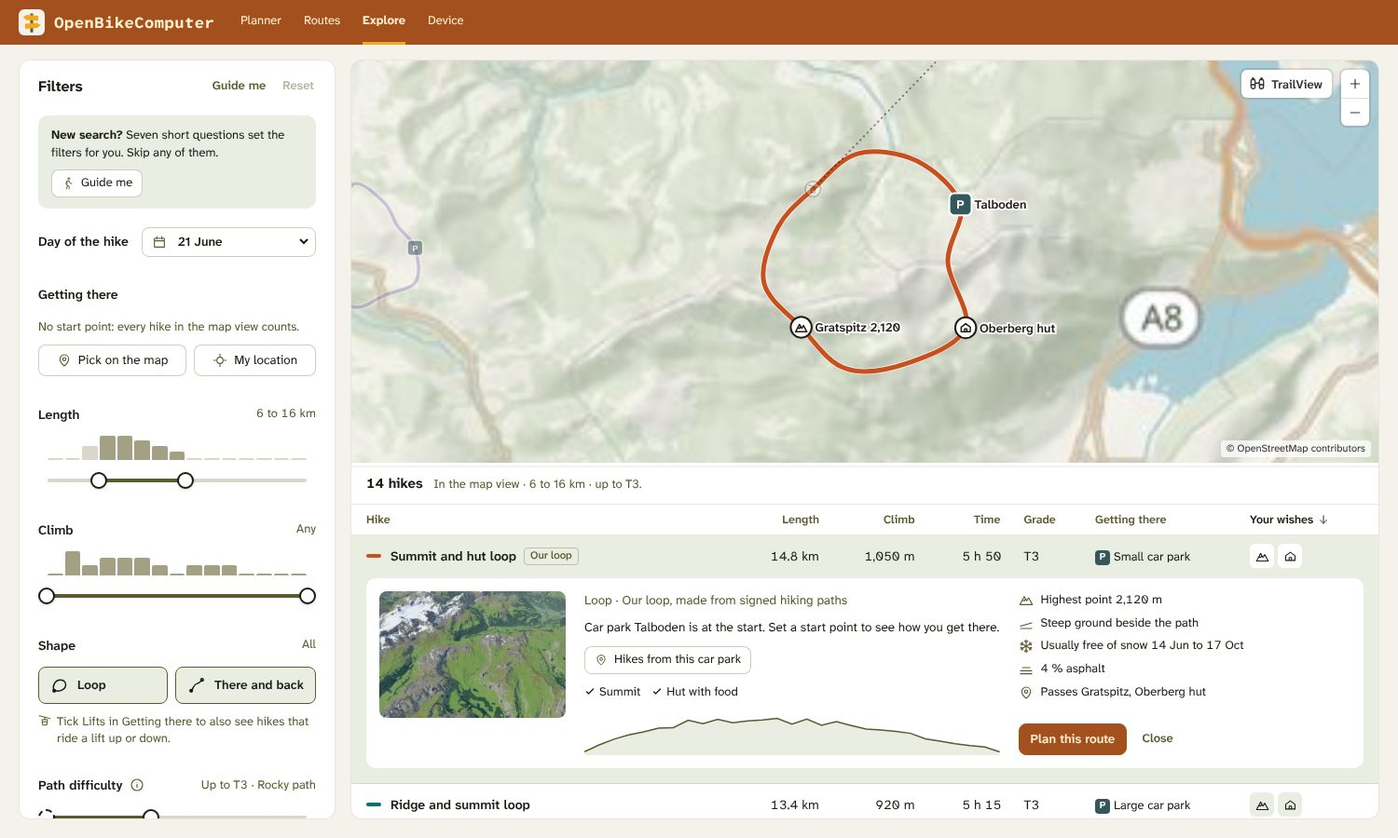
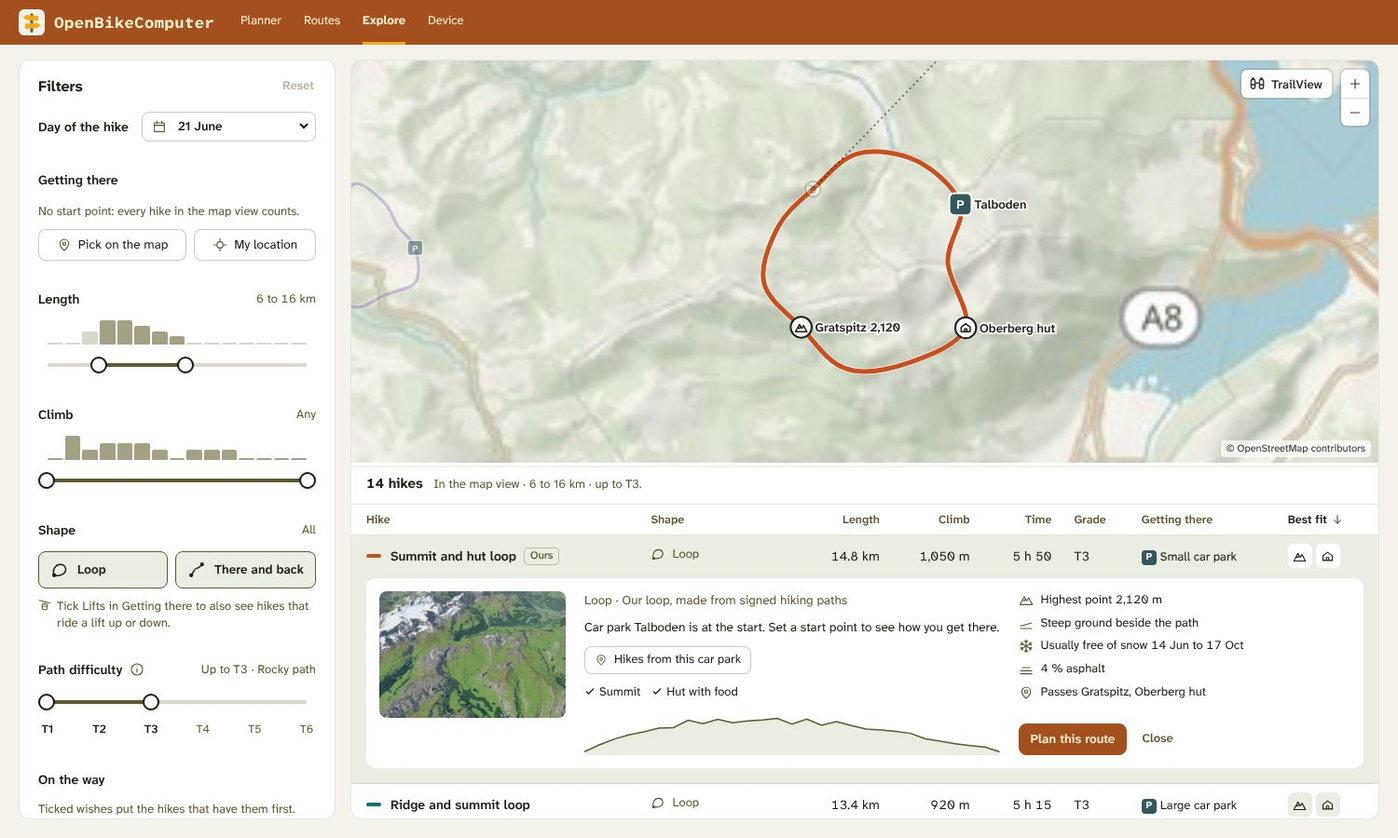
prototype: drop the guide; clearer lift words, the grade's lower end as a limit, and a calmer results table (#3703)
Claude-Session: https://claude.ai/code/session_011wmjvJHELXXkiSsQom1LXN

diff --git a/builder/web/prototype-explore-search/engine.js b/builder/web/prototype-explore-search/engine.js
@@ -41,30 +41,35 @@ const HIKES = [
     { id: 3, n: 'Hut loop over the alp', made: 1, km: 11.6, up: 680, t: 2, alt: 1620, p: 35, pn: 'Alpstrasse', asph: 6, f: 'loop hut views quiet safe', snow: [day(20, 5), day(1, 11)], x: 590, y: 545, dir: 90, c: '#c2278f' },
     { id: 4, n: 'Summit and hut loop', made: 1, km: 14.8, up: 1050, t: 3, alt: 2120, p: 25, pn: 'Talboden', asph: 4, f: 'loop peak hut ridge views quiet', snow: [day(14, 6), day(17, 10)], x: 455, y: 470, dir: 150, c: '#c8501e' },
     { id: 5, n: 'Gorge and waterfall loop', made: 0, km: 7.1, up: 380, t: 2, alt: 980, p: 40, pn: 'Schlucht', asph: 15, f: 'loop waterfall forest', snow: [day(10, 4), day(26, 11)], x: 330, y: 480, dir: 180, c: '#6a3fb0' },
-    { id: 6, n: 'Summit, there and back', made: 0, km: 9.6, up: 870, t: 3, alt: 1898, p: 80, pn: 'Passhöhe', asph: 5, f: 'peak views', snow: [day(30, 5), day(27, 10)], x: 850, y: 380, to: [1, 5], c: '#8c1d2b' },
+    { id: 6, n: 'Chalchstock summit path', made: 0, km: 9.6, up: 870, t: 3, alt: 1898, p: 80, pn: 'Passhöhe', asph: 5, f: 'peak views', snow: [day(30, 5), day(27, 10)], x: 850, y: 380, to: [1, 5], c: '#8c1d2b' },
     { id: 7, n: 'Forest loop', made: 1, km: 10.2, up: 310, t: 1, alt: 790, p: 15, pn: 'Waldrand', asph: 12, f: 'loop forest quiet safe', snow: [day(16, 3), day(11, 12)], x: 450, y: 350, dir: 190, c: '#2f7d4f' },
     { id: 8, n: 'High ridge loop', made: 0, km: 16.5, up: 1240, t: 4, alt: 2404, p: 30, pn: 'Hinterberg', asph: 2, f: 'loop peak ridge views quiet', snow: [day(29, 6), day(7, 10)], x: 650, y: 650, dir: 80, c: '#0d6e74' },
     { id: 9, n: 'Lake and hut loop', made: 1, km: 12.3, up: 560, t: 2, alt: 1340, p: 50, pn: 'Seeboden', asph: 9, f: 'loop lake hut forest safe', snow: [day(5, 5), day(11, 11)], x: 405, y: 640, dir: 170, c: '#2f62c9' },
     { id: 10, n: 'Alp and waterfall loop', made: 0, km: 6.4, up: 420, t: 2, alt: 1510, p: 20, pn: 'Alpweg', asph: 7, f: 'loop waterfall hut views safe', snow: [day(15, 5), day(1, 11)], x: 520, y: 700, dir: 90, c: '#c2278f' },
-    { id: 11, n: 'Lake shore, there and back', made: 0, km: 5.8, up: 90, t: 1, alt: 470, p: 0, asph: 41, f: 'lake safe', snow: [1, 365], x: 628, y: 338, dir: -60, c: '#6a3fb0' },
+    { id: 11, n: 'Lake shore path', made: 0, km: 5.8, up: 90, t: 1, alt: 470, p: 0, asph: 41, f: 'lake safe', snow: [1, 365], x: 628, y: 338, dir: -60, c: '#6a3fb0' },
     { id: 12, n: 'Panorama loop above the lake', made: 0, km: 9.4, up: 520, t: 2, alt: 1128, p: 90, pn: 'Aussicht', asph: 18, f: 'loop views forest safe', snow: [day(5, 4), day(1, 12)], x: 588, y: 442, dir: 10, c: '#c8501e' },
     { id: 13, n: 'Moor and forest loop', made: 1, km: 11.1, up: 260, t: 1, alt: 1040, p: 45, pn: 'Moos', asph: 10, f: 'loop forest quiet safe', snow: [day(20, 4), day(21, 11)], x: 900, y: 290, dir: -90, c: '#2f7d4f' },
     { id: 14, n: 'Village and lake loop', made: 1, km: 7.6, up: 180, t: 1, alt: 520, p: 70, pn: 'Dorf', asph: 38, f: 'loop lake safe', snow: [1, 365], x: 648, y: 262, dir: 180, c: '#8c1d2b' },
     { id: 15, n: 'Valley floor loop', made: 1, km: 6.2, up: 120, t: 1, alt: 1080, p: 80, pn: 'Engelberg village', asph: 22, f: 'loop forest safe waterfall', snow: [day(1, 4), day(30, 11)], x: 601, y: 683, dir: 0, c: '#2f7d4f', img: 13 },
     { id: 16, n: 'Alp lakes loop', made: 0, km: 9.5, up: 480, t: 2, alt: 2050, p: 0, asph: 0, f: 'loop lake hut views safe', snow: [day(20, 6), day(15, 10)], x: 603, y: 640, dir: -90, c: '#2f62c9', img: 9 },
     { id: 17, n: 'Glacier view ridge loop', made: 0, km: 11.8, up: 940, t: 4, alt: 2450, p: 0, asph: 0, f: 'loop peak ridge views quiet', snow: [day(5, 7), day(30, 9)], x: 583, y: 725, dir: 100, c: '#0d6e74', img: 8 },
-    { id: 18, n: 'Gorge walk, there and back', made: 0, km: 5.0, up: 210, t: 2, alt: 1210, p: 0, asph: 5, f: 'waterfall forest', snow: [day(15, 4), day(15, 11)], x: 612, y: 690, dir: 20, c: '#6a3fb0', img: 5 },
+    { id: 18, n: 'Gorge walk', made: 0, km: 5.0, up: 210, t: 2, alt: 1210, p: 0, asph: 5, f: 'waterfall forest', snow: [day(15, 4), day(15, 11)], x: 612, y: 690, dir: 20, c: '#6a3fb0', img: 5 },
     // Routes with a lift for one half: the path runs from the valley station to the top station. `same` shares the line of another
     // record, because one path gives two shapes with different numbers: hike up and ride down, or ride up and hike down.
-    { id: 19, n: 'Up to Alp Oberberg, cable car down', made: 1, shape: 'liftDown', lr: 'l1', km: 5.4, up: 820, down: 30, t: 2, alt: 1650, p: 60, pn: 'Oberberg valley station', asph: 6, f: 'hut views', snow: [day(10, 5), day(5, 11)], x: 468, y: 418, to: [4, 8], c: '#5a7d1e', img: 3 },
-    { id: 20, n: 'Cable car to Alp Oberberg, down on foot', made: 1, shape: 'liftUp', lr: 'l1', same: 19, km: 5.4, up: 30, down: 820, t: 2, alt: 1650, p: 0, asph: 6, f: 'hut views', snow: [day(10, 5), day(5, 11)], x: 468, y: 418, to: [4, 8], c: '#5a7d1e', img: 3 },
-    { id: 21, n: 'Up to the alp lakes, gondola down', made: 1, shape: 'liftDown', lr: 'l2', km: 6.1, up: 760, down: 20, t: 2, alt: 1840, p: 0, asph: 3, f: 'lake views', snow: [day(5, 6), day(25, 10)], x: 600, y: 674, to: [16, 0], c: '#1e6f9a', img: 9 },
-    { id: 22, n: 'Gondola to the alp lakes, down on foot', made: 1, shape: 'liftUp', lr: 'l2', same: 21, km: 6.1, up: 20, down: 760, t: 2, alt: 1840, p: 0, asph: 3, f: 'lake views', snow: [day(5, 6), day(25, 10)], x: 600, y: 674, to: [16, 0], c: '#1e6f9a', img: 9 },
-    { id: 23, n: 'Glacier view path, cable car up', made: 0, shape: 'liftUp', lr: 'l3', km: 9.2, up: 60, down: 1380, t: 3, alt: 2420, p: 0, asph: 0, f: 'views ridge waterfall quiet', snow: [day(1, 7), day(30, 9)], x: 590, y: 688, to: [17, 0], c: '#8c1d2b', img: 8 },
+    { id: 19, n: 'Alp Oberberg path', made: 1, shape: 'liftDown', lr: 'l1', km: 5.4, up: 820, down: 30, t: 2, alt: 1650, p: 60, pn: 'Oberberg valley station', asph: 6, f: 'hut views', snow: [day(10, 5), day(5, 11)], x: 468, y: 418, to: [4, 8], c: '#5a7d1e', img: 3 },
+    { id: 20, n: 'Alp Oberberg path', made: 1, shape: 'liftUp', lr: 'l1', same: 19, km: 5.4, up: 30, down: 820, t: 2, alt: 1650, p: 0, asph: 6, f: 'hut views', snow: [day(10, 5), day(5, 11)], x: 468, y: 418, to: [4, 8], c: '#5a7d1e', img: 3 },
+    { id: 21, n: 'Alp lakes path', made: 1, shape: 'liftDown', lr: 'l2', km: 6.1, up: 760, down: 20, t: 2, alt: 1840, p: 0, asph: 3, f: 'lake views', snow: [day(5, 6), day(25, 10)], x: 600, y: 674, to: [16, 0], c: '#1e6f9a', img: 9 },
+    { id: 22, n: 'Alp lakes path', made: 1, shape: 'liftUp', lr: 'l2', same: 21, km: 6.1, up: 20, down: 760, t: 2, alt: 1840, p: 0, asph: 3, f: 'lake views', snow: [day(5, 6), day(25, 10)], x: 600, y: 674, to: [16, 0], c: '#1e6f9a', img: 9 },
+    { id: 23, n: 'Glacier view path', made: 0, shape: 'liftUp', lr: 'l3', km: 9.2, up: 60, down: 1380, t: 3, alt: 2420, p: 0, asph: 0, f: 'views ridge waterfall quiet', snow: [day(1, 7), day(30, 9)], x: 590, y: 688, to: [17, 0], c: '#8c1d2b', img: 8 },
 ];
+const loopIco = size => `<svg class="i" width="${size}" height="${size}" viewBox="0 0 24 24" aria-hidden="true"><path d="M5 19c-3-6 1-14 8-14s9 8 4 12-9 2-12 2Z"/><circle cx="5" cy="19" r="1.7" fill="currentColor"/></svg>`;
+const backIco = size => `<svg class="i" width="${size}" height="${size}" viewBox="0 0 24 24" aria-hidden="true"><path d="M5 19c3-3 3-8 7-9s5-3 7-5"/><circle cx="5" cy="19" r="1.7" fill="currentColor"/><circle cx="19" cy="5" r="1.7"/></svg>`;
+// A lift shape: the walked half is solid, the ride is dotted, so the picture says which half the lift takes.
+const liftIco = (up, size) => `<svg class="i" width="${size}" height="${size}" viewBox="0 0 24 24" aria-hidden="true"><path d="M4 20c4-2 6-8 9-10s4-4 7-6"/><path d="M4 20 20 4" stroke-dasharray="1.5 2.5"/><path d="${up ? 'M15 4h5v5' : 'M4 15v5h5'}"/></svg>`;
+const shapeIcon = (k, size = 20) => k === 'loop' ? loopIco(size) : k === 'back' ? backIco(size) : liftIco(k === 'liftUp', size);
 // The shapes a rider can accept. The lift shapes count only while Lifts is ticked.
 const SHAPES = {
-    loop: { label: 'Loop', tag: '' },
+    loop: { label: 'Loop', tag: 'Loop' },
     back: { label: 'There and back', tag: 'There and back' },
     liftDown: { label: 'Hike up, lift down', tag: 'Lift down', lift: true },
     liftUp: { label: 'Lift up, hike down', tag: 'Lift up', lift: true },
@@ -117,7 +122,7 @@ for (const h of HIKES) {
 // ── State ───────────────────────────────────────────────────────────────────
 const fresh = () => ({ date: day(21, 6), point: null, walk: 4, car: false, road: 30, large: false, lift: 0, pin: null,
     km: [3, 8], up: [0, 15], loop: true, back: true, liftDown: true, liftUp: true, gradeMin: 1, gradeMax: 3, sort: 'match', wish: { peak: 1, hut: 1 }, selected: null, hover: null });
-const STORE = 'explore-mock-3';
+const STORE = 'explore-mock-4';
 let state = fresh();
 try { const saved = JSON.parse(localStorage.getItem(STORE) || 'null'); if (saved && saved.wish) state = { ...fresh(), ...saved, hover: null }; } catch (e) { /* The mock works without storage. */ }
 const QUERY_KEYS = ['date', 'point', 'walk', 'car', 'road', 'large', 'lift', 'pin', 'km', 'up', 'loop', 'back', 'liftDown', 'liftUp', 'gradeMin', 'gradeMax', 'wish'];
@@ -219,17 +224,16 @@ function access(h, s = state) {
 function has(h, key, s = state) {
     if (key === 'official') return !h.made;
     if (key === 'nosnow') return s.date >= h.snow[0] && s.date <= h.snow[1];
-    if (key === 'reach') return h.t >= s.gradeMin;
     if (key.startsWith('via:')) return h.via.has(key.slice(4));
     return h.f.split(' ').includes(key);
 }
-const wishLabel = (k, s = state, long) => k === 'reach' ? `Has a T${s.gradeMin} part` : k.startsWith('via:') ? `Passes ${PLACE[k.slice(4)].name}` : (!long && WISH[k].short) || WISH[k].label;
-const wishIcon = k => k === 'reach' ? 'up' : k.startsWith('via:') ? PLACE[k.slice(4)].kind : WISH[k].icon;
+const wishLabel = (k, s = state, long) => k.startsWith('via:') ? `Passes ${PLACE[k.slice(4)].name}` : (!long && WISH[k].short) || WISH[k].label;
+const wishIcon = k => k.startsWith('via:') ? PLACE[k.slice(4)].kind : WISH[k].icon;
 const shapeOk = (h, s = state) => s[h.shape] && (!SHAPES[h.shape].lift || !!s.lift);
 const shapesOn = (s = state) => Object.keys(SHAPES).filter(k => s[k] && (!SHAPES[k].lift || s.lift));
 const top = (range, scale) => range[1] >= scale.steps ? Infinity : range[1] * scale.step;
 function inLimits(h, s, skip) {
-    if (h.t > s.gradeMax || !shapeOk(h, s)) return false;
+    if (h.t > s.gradeMax || h.t < s.gradeMin || !shapeOk(h, s)) return false;
     if (skip !== 'km' && (h.km < s.km[0] * KM.step || h.km > top(s.km, KM))) return false;
     if (skip !== 'up' && (h.up < s.up[0] * UP.step || h.up > top(s.up, UP))) return false;
     return true;
@@ -299,7 +303,7 @@ function render() {
 }
 const update = change => { Object.assign(state, change); render(); };
 function setWish(key, value) { const wish = { ...state.wish }; if (value) wish[key] = value; else delete wish[key]; update({ wish }); }
-function setGradeMin(min) { const wish = { ...state.wish }; if (min > 1) wish.reach = wish.reach || 1; else delete wish.reach; update({ gradeMin: min, wish }); }
+const setGradeMin = min => update({ gradeMin: min });
 const reset = () => { state = { ...fresh(), sort: state.sort }; picking = false; render(); };
 const setPin = pin => update({ pin, selected: null });
 
@@ -329,7 +333,7 @@ document.addEventListener('click', e => {
     const wish = e.target.closest('.wish'); if (!wish) return;
     const key = wish.dataset.key, v = state.wish[key] || 0;
     if (e.target.closest('.must')) setWish(key, v === 2 ? 1 : 2);
-    else if (e.target.closest('.pick')) { if (key === 'reach') setGradeMin(1); else setWish(key, v ? 0 : 1); }
+    else if (e.target.closest('.pick')) setWish(key, v ? 0 : 1);
 });
 
 // A leg of the journey from the start point to the route. Its node sits on the line that joins the legs.
@@ -346,7 +350,7 @@ const GROUPS = {
             <li class="leg start"></li>
             ${leg('car', 'Car', 'to a car park or a lift', `<div class="rail"><input type="range" min="1" max="${ROAD_MAX / ROAD_STEP}" step="1" data-k="road" aria-label="Longest drive, one way"></div><button type="button" class="option" data-large aria-pressed="false"><span class="box">${icon('check', 12)}</span>Large car parks only</button>`)}
             <li class="leg later" data-way="train"><div class="leg-head"><span class="box node"></span>${icon('train')}<span class="lab">Train<small>Later: needs timetables</small></span></div></li>
-            ${leg('lift', 'Lifts', 'cable cars, gondolas, chairlifts', `<span class="seg" role="group" aria-label="How lifts count"><button type="button" data-lift="1">Can take me up</button><button type="button" data-lift="2">Only by lift</button></span><p class="hint">${icon('info', 14)}We do not know when a lift runs.</p>`)}
+            ${leg('lift', 'Lifts', 'cable cars, gondolas, chairlifts', `<div class="seg-row"><span id="lift-when">Use a lift</span><span class="seg" role="group" aria-labelledby="lift-when"><button type="button" data-lift="1">When it helps</button><button type="button" data-lift="2">Always</button></span></div><p class="hint">${icon('info', 14)}We do not know when a lift runs.</p>`)}
             <li class="leg walk" data-way="walk"><div class="leg-head"><span class="node" title="You always walk the last part"></span>${icon('walk')}<span class="lab">Walk<small></small></span><b class="val"></b></div>
                 <div class="leg-body"><div class="rail"><input type="range" min="0" max="${WALK.length - 1}" step="1" data-k="walk" aria-label="Longest walk to the route"></div></div></li>
             <li class="leg end"><div class="leg-head"><span class="node ring"></span><span></span><span class="lab">The route</span></div></li>
@@ -384,22 +388,18 @@ const GROUPS = {
             way('car').querySelector('.val').textContent = state.car ? `up to ${state.road} km` : '';
             const road = q('[data-k="road"]'); road.value = state.road / ROAD_STEP; rail(road.parentElement, 1, ROAD_MAX / ROAD_STEP, 1, state.road / ROAD_STEP);
             q('[data-large]').setAttribute('aria-pressed', state.large);
-            way('lift').querySelector('.val').textContent = state.lift === 2 ? 'only by lift' : '';
+            way('lift').querySelector('.val').textContent = state.lift === 2 ? 'always' : '';
             for (const b of el.querySelectorAll('[data-lift]')) b.setAttribute('aria-pressed', +b.dataset.lift === state.lift);
         };
     },
     km(el) { return rangeGroup(el, 'km', 'Length', KM, ['Shortest length', 'Longest length']); },
     up(el) { return rangeGroup(el, 'up', 'Climb', UP, ['Least climb', 'Most climb']); },
     shape(el) {
-        const loopIco = '<svg class="i" width="20" height="20" viewBox="0 0 24 24" aria-hidden="true"><path d="M5 19c-3-6 1-14 8-14s9 8 4 12-9 2-12 2Z"/><circle cx="5" cy="19" r="1.7" fill="currentColor"/></svg>';
-        const backIco = '<svg class="i" width="20" height="20" viewBox="0 0 24 24" aria-hidden="true"><path d="M5 19c3-3 3-8 7-9s5-3 7-5"/><circle cx="5" cy="19" r="1.7" fill="currentColor"/><circle cx="19" cy="5" r="1.7"/></svg>';
-        // A lift shape: the walked half is solid, the ride is dotted, so the picture says which half the lift takes.
-        const liftIco = up => `<svg class="i" width="20" height="20" viewBox="0 0 24 24" aria-hidden="true"><path d="M4 20c4-2 6-8 9-10s4-4 7-6"/><path d="M4 20 20 4" stroke-dasharray="1.5 2.5"/><path d="${up ? 'M15 4h5v5' : 'M4 15v5h5'}"/></svg>`;
         el.innerHTML = head('Shape') + `<div class="tiles">
-            <button type="button" class="tile" data-shape="loop">${loopIco}Loop</button>
-            <button type="button" class="tile" data-shape="back">${backIco}There and back</button>
-            <button type="button" class="tile lift-shape" data-shape="liftDown">${liftIco(false)}Hike up, lift down</button>
-            <button type="button" class="tile lift-shape" data-shape="liftUp">${liftIco(true)}Lift up, hike down</button></div>
+            <button type="button" class="tile" data-shape="loop">${shapeIcon('loop')}Loop</button>
+            <button type="button" class="tile" data-shape="back">${shapeIcon('back')}There and back</button>
+            <button type="button" class="tile lift-shape" data-shape="liftDown">${shapeIcon('liftDown')}Hike up, lift down</button>
+            <button type="button" class="tile lift-shape" data-shape="liftUp">${shapeIcon('liftUp')}Lift up, hike down</button></div>
             <p class="hint" data-lift-hint>${icon('lift', 14)}Tick Lifts in Getting there to also see hikes that ride a lift up or down.</p>`;
         el.addEventListener('click', e => {
             const t = e.target.closest('[data-shape]'); if (!t) return;
@@ -444,9 +444,9 @@ function rangeGroup(el, id, title, scale, labels) {
 function gradeGroup(el) {
     el.classList.add('grade-group');
     el.innerHTML = head('Path difficulty', `<button type="button" class="info" aria-expanded="false" aria-label="What the grades mean">${icon('info', 16)}</button>`) + `
-        <div class="rail"><input type="range" min="0" max="5" step="1" class="wishful" aria-label="Should reach at least this grade"><input type="range" min="0" max="5" step="1" aria-label="Hardest grade allowed"></div>
+        <div class="rail"><input type="range" min="0" max="5" step="1" aria-label="Has a part of at least this grade"><input type="range" min="0" max="5" step="1" aria-label="Hardest grade allowed"></div>
         <div class="grade-labels">${GRADES.map((g, i) => `<button type="button" data-grade="${i}" style="left: ${i * 20}%" aria-label="${g[0]}, ${g[1]}">${g[0]}</button>`).join('')}</div>
-        <div class="wishes" data-reach></div><div class="grade-pop" role="tooltip" hidden></div>`;
+        <div class="grade-pop" role="tooltip" hidden></div>`;
     const [low, high] = el.querySelectorAll('input'), labels = el.querySelector('.grade-labels'), pop = el.querySelector('.grade-pop'), info = el.querySelector('.info');
     low.addEventListener('input', () => setGradeMin(Math.min(+low.value + 1, state.gradeMax)));
     high.addEventListener('input', () => update({ gradeMax: Math.max(+high.value + 1, state.gradeMin) }));
@@ -473,8 +473,7 @@ function gradeGroup(el) {
         rail(el.querySelector('.rail'), 0, 5, state.gradeMin - 1, state.gradeMax - 1); low.value = state.gradeMin - 1; high.value = state.gradeMax - 1;
         for (const b of labels.children) b.classList.toggle('in', +b.dataset.grade >= state.gradeMin - 1 && +b.dataset.grade <= state.gradeMax - 1);
         const g = GRADES[state.gradeMax - 1];
-        el.querySelector('.val').textContent = `Up to ${g[0]} · ${g[1]}`;
-        syncRows(el.querySelector('[data-reach]'), state.gradeMin > 1 ? ['reach'] : []);
+        el.querySelector('.val').textContent = state.gradeMin > 1 ? `A T${state.gradeMin} part, up to ${g[0]}` : `Up to ${g[0]} · ${g[1]}`;
     };
 }
 function gradeSketch(i) {
@@ -492,78 +491,17 @@ function mountFilters(el) {
     }
 }
 
-// ── The guide: the same filter groups, one question at a time ──────────────
-// The guide mounts its own copy of each group, so an answer sets the same state as the filter column, and the map and the
-// results change while the rider answers. A rider can skip any question, go back, or close the guide at any step.
-const STEPS = [
-    { groups: ['day'], q: 'When do you go?', why: 'The day decides which hikes are usually free of snow.' },
-    { groups: ['journey'], q: 'How do you get to the start?', why: 'Set where you start, then tick each way you are happy to travel.' },
-    { groups: ['shape'], q: 'Which shapes are fine?', why: 'Pick every shape you would walk. A there-and-back hike counts its length and climb both ways.' },
-    { groups: ['km', 'up'], q: 'How long, and how much climb?', why: 'The bars show how many hikes each step holds, inside your other answers.' },
-    { groups: ['grade'], q: 'How hard may the path be?', why: 'The right handle is the hardest grade you accept. Move the left handle to ask for a harder part. Hover or tap a grade to see it.' },
-    { groups: ['way'], q: 'What would make it a good day?', why: 'Pick what you hope to pass on the way.' },
-    { groups: ['route'], q: 'Anything about the route itself?', why: 'For example, a route that is usually free of snow on your day.' },
-];
-function mountGuide(side, filters, opener) {
-    const g = document.createElement('section');
-    g.className = 'guide'; g.hidden = true; g.setAttribute('aria-label', 'Plan your hike, one question at a time');
-    g.innerHTML = `<div class="guide-top"><span class="guide-step" aria-live="polite"></span><span class="guide-dots" aria-hidden="true">${STEPS.map(() => '<i></i>').join('')}</span><button type="button" class="close" data-guide-close aria-label="Close the guide">${icon('close', 16)}</button></div>
-        <div class="guide-body scroll">${STEPS.map((st, i) => `<div class="guide-page" data-page="${i}" hidden><h3>${st.q}</h3><p class="hint">${st.why}</p><div class="filters"></div></div>`).join('')}</div>
-        <div class="guide-foot"><button type="button" class="text-button" data-guide-back>Back</button><span class="guide-count"></span><button type="button" class="text-button" data-guide-skip>Skip</button><button type="button" class="button primary" data-guide-next></button></div>`;
-    side.append(g);
-    STEPS.forEach((st, i) => {
-        const box = g.querySelector(`[data-page="${i}"] .filters`);
-        for (const name of st.groups) { const el = document.createElement('section'); el.className = 'group'; el.dataset.group = name; box.append(el); syncs.push(GROUPS[name](el)); }
-    });
-    // The offer at the top of the column, while the filters hold nothing of the rider's own.
-    const offer = document.createElement('div');
-    offer.className = 'guide-offer';
-    offer.innerHTML = `<p><b>New search?</b> Seven short questions set the filters for you. Skip any of them.</p><button type="button" class="button small" data-guide-open>${icon('walk', 14)}Guide me</button>`;
-    filters.prepend(offer);
-    let step = -1;
-    const show = i => {
-        step = i; g.hidden = i < 0; side.classList.toggle('guided', i >= 0);
-        if (i < 0) return opener.focus();
-        for (const p of g.querySelectorAll('.guide-page')) p.hidden = +p.dataset.page !== i;
-        [...g.querySelector('.guide-dots').children].forEach((dot, j) => dot.className = j < i ? 'done' : j === i ? 'now' : '');
-        g.querySelector('.guide-step').textContent = `Question ${i + 1} of ${STEPS.length}`;
-        g.querySelector('[data-guide-back]').disabled = i === 0;
-        g.querySelector('[data-guide-skip]').hidden = i === STEPS.length - 1;
-        g.querySelector('.guide-body').scrollTop = 0;
-        sync(find());
-        g.querySelector('h3:not([hidden])') && g.querySelector(`[data-page="${i}"] h3`).focus({ preventScroll: true });
-    };
-    const sync = found => {
-        offer.hidden = !isFresh();
-        if (step < 0) return;
-        g.querySelector('.guide-count').textContent = `${countText(found.length)} fit so far`;
-        g.querySelector('[data-guide-next]').textContent = step === STEPS.length - 1 ? `Show ${countText(found.length)}` : 'Next';
-    };
-    for (const h of g.querySelectorAll('h3')) h.tabIndex = -1;
-    syncs.push(sync);
-    document.addEventListener('click', e => {
-        if (e.target.closest('[data-guide-open]')) return show(0);
-        if (step < 0 || !g.contains(e.target)) return;
-        if (e.target.closest('[data-guide-close]')) return show(-1);
-        if (e.target.closest('[data-guide-back]')) return show(Math.max(0, step - 1));
-        if (e.target.closest('[data-guide-skip]')) return show(step + 1);
-        if (e.target.closest('[data-guide-next]')) return show(step === STEPS.length - 1 ? -1 : step + 1);
-    });
-    g.addEventListener('keydown', e => { if (e.key === 'Escape' && !e.defaultPrevented) show(-1); });
-    return { open: () => show(0) };
-}
-
 // ── One plain line that says what the search holds ─────────────────────────
 function queryHtml() {
     const parts = [];
     if (state.pin) parts.push(`From <b>${pinName(state, true)}</b>, walk ${dist(WALK[state.walk])}`);
-    else if (state.point) parts.push(`From <b>near ${townNear(state.point)}</b>: ` + [`walk ${dist(WALK[state.walk])}`, state.car && `drive ${state.road} km`, state.lift === 2 ? 'by lift only' : state.lift && 'lifts'].filter(Boolean).join(', '));
+    else if (state.point) parts.push(`From <b>near ${townNear(state.point)}</b>: ` + [`walk ${dist(WALK[state.walk])}`, state.car && `drive ${state.road} km`, state.lift === 2 ? 'always by lift' : state.lift && 'lifts'].filter(Boolean).join(', '));
     else parts.push('In the map view');
     const shapes = shapesOn();
     if (shapes.length < (state.lift ? 4 : 2)) parts.push(shapes.map(k => SHAPES[k].label.toLowerCase()).join(' or '));
     if (state.km[0] > 0 || state.km[1] < 15) parts.push(rangeText(state.km, KM).toLowerCase());
     if (state.up[0] > 0 || state.up[1] < 15) parts.push(rangeText(state.up, UP).toLowerCase() + ' up');
-    parts.push('up to T' + state.gradeMax);
+    parts.push((state.gradeMin > 1 ? `a T${state.gradeMin} part, ` : '') + 'up to T' + state.gradeMax);
     const musts = Object.keys(state.wish).filter(k => state.wish[k] === 2).map(k => `<b>${wishLabel(k).toLowerCase()}</b>`);
     return parts.join(' · ') + (musts.length ? ` · must: ${musts.join(', ')}` : '') + '.';
 }
@@ -581,7 +519,7 @@ let emptyTries = [];
 function emptyHtml() {
     const tries = [];
     for (const k of Object.keys(state.wish).filter(k => state.wish[k] === 2)) tries.push([`${wishLabel(k)} as a wish only`, { wish: { ...state.wish, [k]: 1 } }]);
-    if (state.lift === 2) tries.push(['Not only by lift', { lift: 1 }]);
+    if (state.lift === 2) tries.push(['A lift only when it helps', { lift: 1 }]);
     if (state.walk < WALK.length - 1) tries.push([`Walk up to ${dist(WALK[state.walk + 2] || WALK[WALK.length - 1])}`, { walk: Math.min(WALK.length - 1, state.walk + 2) }]);
     if (state.point && !state.pin) {
         if (state.car && state.road < ROAD_MAX) tries.push([`Drive up to ${Math.min(ROAD_MAX, state.road + 20)} km`, { road: Math.min(ROAD_MAX, state.road + 20) }]);
@@ -590,6 +528,7 @@ function emptyHtml() {
         if (!state.lift) tries.push(['Take lifts', { lift: 1 }]);
     }
     if (state.pin) tries.push(['Unpin the start', { pin: null }]);
+    if (state.gradeMin > 1) tries.push([`No T${state.gradeMin} part needed`, { gradeMin: 1 }]);
     for (const k of Object.keys(SHAPES)) if (!state[k] && (!SHAPES[k].lift || state.lift)) tries.push([`${SHAPES[k].label} too`, { [k]: true }]);
     const ways = tries.map(([text, change]) => [text, change, find({ ...state, ...change }).length]).filter(t => t[2]);
     emptyTries = ways.map(t => t[1]);
@@ -820,6 +759,6 @@ function fitMap(found, at, r) {
 
 return {
     get state() { return state; }, update, render, reset, isFresh, set page(p) { page = { ...page, ...p }; },
-    icon, fmt, shapeTag: h => SHAPES[h.shape].tag, accessSteps, wishLabel, wishIcon, niceWishes, queryHtml, countText, mountFilters, mountGuide, mountMap, detailHtml, hover, emptyHtml,
+    icon, fmt, shapeTag: h => SHAPES[h.shape].tag, shapeIcon, accessSteps, wishLabel, wishIcon, niceWishes, queryHtml, countText, mountFilters, mountMap, detailHtml, hover, emptyHtml,
 };
 })();

diff --git a/builder/web/prototype-explore-search/index.html b/builder/web/prototype-explore-search/index.html
@@ -16,7 +16,7 @@
 <main class="page">
     <h1 class="sr">Explore day hikes</h1>
     <section class="side" aria-labelledby="filters-title">
-        <div class="side-top"><h2 id="filters-title">Filters</h2><span class="side-acts"><button type="button" class="text-button" id="guide">Guide me</button><button type="button" class="text-button" id="reset">Reset</button></span></div>
+        <div class="side-top"><h2 id="filters-title">Filters</h2><button type="button" class="text-button" id="reset">Reset</button></div>
         <div class="scroll"><div class="filters" id="filters"></div></div>
         <button type="button" class="button primary show-results" id="show"></button>
     </section>
@@ -28,12 +28,13 @@
             <div class="scroll" id="list"><table id="table">
                 <thead><tr>
                     <th scope="col">Hike</th>
+                    <th scope="col" class="c-shape">Shape</th>
                     <th scope="col" class="num" data-col="short"><button type="button" data-sort="short">Length</button></th>
                     <th scope="col" class="num c-climb" data-col="climb"><button type="button" data-sort="climb">Climb</button></th>
                     <th scope="col" class="num c-time" data-col="time"><button type="button" data-sort="time">Time</button></th>
                     <th scope="col" class="c-grade">Grade</th>
                     <th scope="col" class="c-acc" data-col="near"><button type="button" data-sort="near">Getting there</button></th>
-                    <th scope="col" class="c-wish" data-col="match"><button type="button" data-sort="match"><span class="long">Your wishes</span><span class="short">Wishes</span></button></th>
+                    <th scope="col" class="c-wish" data-col="match"><button type="button" data-sort="match">Best fit</button></th>
                 </tr></thead>
                 <tbody id="rows"></tbody>
             </table></div>
@@ -47,8 +48,6 @@
 const $ = id => document.getElementById(id);
 const { icon, fmt } = OBC;
 OBC.mountFilters($('filters'));
-const guide = OBC.mountGuide(document.querySelector('.side'), $('filters'), $('guide'));
-$('guide').addEventListener('click', guide.open);
 OBC.mountMap($('map'));
 for (const b of document.querySelectorAll('[data-sort]')) b.insertAdjacentHTML('beforeend', icon('down', 14));
 
@@ -80,10 +79,11 @@ OBC.page = {
         $('rows').innerHTML = found.length ? found.map(r => {
             const h = r.h, open = s.selected === h.id;
             return `<tr class="hike-row${open ? ' open' : ''}" data-id="${h.id}"${s.hover === h.id ? ' data-hover' : ''}>
-                <td><button type="button" class="name" aria-expanded="${open}"><span class="swatch" style="--c:${h.c}"></span><span class="nm"><strong>${h.n}</strong>${OBC.shapeTag(h) ? `<span class="ours">${OBC.shapeTag(h)}</span>` : ''}${h.made ? `<span class="ours">${h.loop ? 'Our loop' : 'Our route'}</span>` : ''}<span class="sub"><span>T${h.t} · ${h.time}</span><span class="acc">${steps(r)}</span></span></span></button></td>
-                <td class="num">${h.km} km<span class="up">${fmt(h.up)} m up</span></td><td class="num c-climb">${fmt(h.up)} m${h.shape === 'liftUp' ? `<span class="down">${fmt(h.down)} m down</span>` : ''}</td><td class="num c-time">${h.time}</td><td class="c-grade">T${h.t}</td>
-                <td class="c-acc"><span class="acc">${steps(r)}</span></td><td class="c-wish">${wishCells(r)}</td></tr>${open ? `<tr class="more"><td colspan="7">${OBC.detailHtml(r)}</td></tr>` : ''}`;
-        }).join('') : `<tr><td colspan="7">${OBC.emptyHtml()}</td></tr>`;
+                <td><button type="button" class="name" aria-expanded="${open}"><span class="swatch" style="--c:${h.c}"></span><span class="nm"><strong>${h.n}</strong>${h.made ? '<span class="ours">Ours</span>' : ''}<span class="sub"><span>${OBC.shapeTag(h)} · T${h.t} · ${h.time}</span><span class="acc">${steps(r)}</span></span></span></button></td>
+                <td class="c-shape"><span class="shp" title="${OBC.shapeTag(h)}">${OBC.shapeIcon(h.shape, 16)}${OBC.shapeTag(h)}</span></td>
+                <td class="num">${h.km} km<span class="up">${fmt(h.up)} m up</span></td><td class="num c-climb">${fmt(h.up)} m</td><td class="num c-time">${h.time}</td><td class="c-grade">T${h.t}</td>
+                <td class="c-acc"><span class="acc">${steps(r)}</span></td><td class="c-wish">${wishCells(r)}</td></tr>${open ? `<tr class="more"><td colspan="8">${OBC.detailHtml(r)}</td></tr>` : ''}`;
+        }).join('') : `<tr><td colspan="8">${OBC.emptyHtml()}</td></tr>`;
         if (s.selected !== null) reveal(s.selected);
     },
 };

diff --git a/builder/web/prototype-explore-search/shared.css b/builder/web/prototype-explore-search/shared.css
@@ -139,8 +139,6 @@ svg.i { flex: none; fill: none; stroke: currentColor; stroke-width: 1.7; stroke-
 .rail input:focus-visible { outline: none; }
 .rail input:focus-visible::-webkit-slider-thumb { outline: 2px solid var(--focus); outline-offset: 2px; }
 .rail input:focus-visible::-moz-range-thumb { outline: 2px solid var(--focus); outline-offset: 2px; }
-.rail .wishful::-webkit-slider-thumb { border-style: dashed; }
-.rail .wishful::-moz-range-thumb { border-style: dashed; }
 
 /* Shape tiles and the grade range with its picture. */
 .tiles { display: grid; grid-template-columns: 1fr 1fr; gap: 8px; }
@@ -356,32 +354,9 @@ tr.more td { padding: 0 16px 16px; border-bottom: 1px solid var(--line); backgro
     *, *::before, *::after { animation-duration: 1ms !important; transition-duration: 1ms !important; }
 }
 
-/* The guide covers the filter column while the map and the results stay live beside it. */
-.side { position: relative; }
-.side-acts { display: flex; gap: 2px; }
-.guide-offer { display: flex; flex-direction: column; align-items: flex-start; gap: 8px; margin: 4px 0 -8px; padding: 12px 14px; border-radius: 10px; background: var(--parchment-2); }
-.guide-offer p { margin: 0; font-size: 13px; line-height: 1.45; }
-.guide { position: absolute; z-index: 6; inset: -1px; display: flex; flex-direction: column; border: 1px solid var(--line-strong); border-radius: 12px; background: var(--panel); box-shadow: var(--shadow); animation: guide-in 220ms var(--ease); }
-.guide[hidden] { display: none; }
-@keyframes guide-in { from { opacity: 0; transform: translateY(8px); } }
-.guide-top { display: flex; align-items: center; gap: 12px; padding: 14px 14px 4px 20px; }
-.guide-step { color: var(--ink-soft); font-size: 12.5px; font-weight: 600; }
-.guide-dots { display: flex; gap: 5px; margin-right: auto; }
-.guide-dots i { width: 7px; height: 7px; border-radius: 50%; background: var(--parchment-3); transition: background 160ms; }
-.guide-dots i.done { background: var(--ink-soft); }
-.guide-dots i.now { background: var(--rust); }
-.guide-body { flex: 1; min-height: 0; overflow-y: auto; padding: 8px 20px 24px; }
-.guide-page h3 { margin: 6px 0 6px; font-size: 20px; font-weight: 700; line-height: 1.25; outline: none; }
-.guide-page > .hint { margin-bottom: 18px; }
-.guide-page .group > .head h2 { display: none; }
-.guide-page .group > .head:not(:has(select)):has(.val:empty) { display: none; }
-.c-climb .down { display: block; color: var(--ink-soft); font-size: 12px; }
-.guide-page .filters { gap: 24px; }
-.guide-foot { display: flex; align-items: center; gap: 6px; padding: 12px 14px; border-top: 1px solid var(--line); }
-.guide-count { margin-right: auto; color: var(--ink-soft); font-size: 13px; font-variant-numeric: tabular-nums; }
-.guide-foot .text-button:disabled { visibility: hidden; }
+/* Lift shapes have long names, so their tiles wrap. The shape column of the table: a picture and a short word. */
 .tile.lift-shape { white-space: normal; line-height: 1.2; }
-@media (max-width: 760px) {
-    .guide { position: fixed; inset: auto 0 0 0; max-height: 88vh; border-radius: 16px 16px 0 0; }
-}
-@media (prefers-reduced-motion: reduce) { .guide { animation: none; } }
+.seg-row { display: flex; flex-wrap: wrap; align-items: center; gap: 6px 10px; color: var(--ink-soft); font-size: 13px; }
+.shp { display: inline-flex; align-items: center; gap: 7px; color: var(--ink-soft); font-size: 13px; }
+@media (max-width: 1180px) { .shp { gap: 0; font-size: 0; } }
+@media (max-width: 760px) { .c-shape { display: none; } }

diff --git a/builder/web/prototype-explore-search/README.md b/builder/web/prototype-explore-search/README.md
@@ -11,9 +11,8 @@ Without a checkout, open the hosted copy of this branch:
 https://htmlpreview.github.io/?https://github.com/timohueser/OpenBikeComputer/blob/prototype/explore-search/builder/web/prototype-explore-search/index.html
 
 Without a browser, read the screenshots in `screenshots/`: the start (1500 px wide), a row opened in
-place, every filter with a start point, the car and lifts on, a phone (390 px), the guide at the
-questions "How do you get to the start?" and "Which shapes are fine?", a row of a route that rides the
-lift up, and the guide on a phone.
+place, every filter with a start point, the car and lifts on and a T2 part asked for, a phone
+(390 px), and the open row of a route that rides the lift up.
 
 The mock is older than some decisions of #3703. Where the two differ, the issue wins; its section
 "Where the mock differs from the design" lists each difference.
@@ -36,9 +35,9 @@ The mock is older than some decisions of #3703. Where the two differ, the issue 
 | Getting there: start point, then Car, Train (later), Lifts and Walk as one journey line | `engine.js`, `GROUPS.journey` |
 | One walk limit from wherever the rider starts; the ways to reach a route | `engine.js`, `access()` |
 | Limits and wishes (off, nice, must); best-match order | `engine.js`, `find()`, `ORDER` |
-| Path difficulty as one range: upper end a limit, lower end a wish | `engine.js`, `gradeGroup()` |
+| Path difficulty as one range: the upper end is the hardest grade allowed, the lower end asks for a part of at least that grade | `engine.js`, `gradeGroup()` |
+| The results table: one shape column (picture and a short word), one "Ours" tag for made routes, "Best fit" as the order of the wishes | `index.html`, `shapeIcon()` |
 | Shapes: loop, there and back, hike up and lift down, lift up and hike down; the rider accepts several; the lift shapes show only while Lifts is ticked | `engine.js`, `SHAPES`, `GROUPS.shape`, `shapeText()` |
-| The guide: the same filter groups, one question at a time, over the filter column; offered while the filters are fresh and by "Guide me" | `engine.js`, `STEPS`, `mountGuide()` |
 | The empty list names the change that helps, with its count | `engine.js`, `emptyHtml()` |
 | Map rules: which markers show, pins, "routes that pass here" | `engine.js`, `renderMap()` |
 
